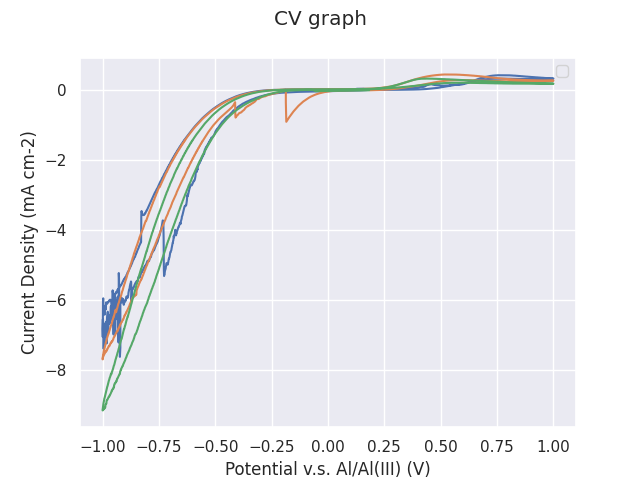
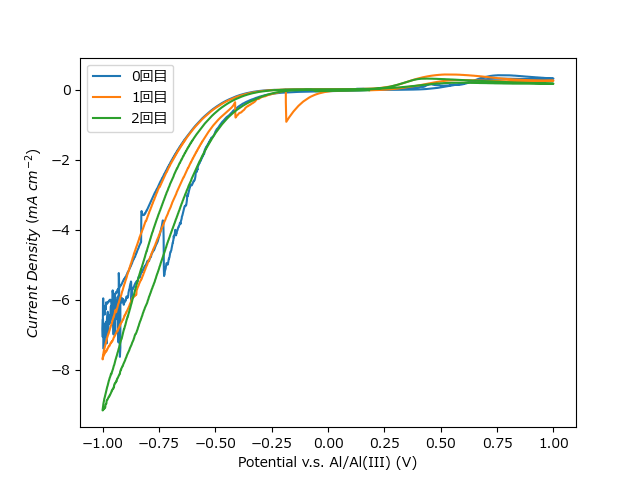
Update to use mairyo

diff --git a/plotter/cv.py b/plotter/cv.py
@@ -16,24 +16,25 @@ class GraphInfo:
 
 
 def create_cv_graph_all(parsed_csv: NextIterator, area: float):
-    sns.set_theme()
+    # sns.set_theme()
+    plt.rcParams["font.family"] = "Meiryo"
     _meta = GraphInfo(
         x_title="potential",
         y_title="current density",
         hue="凡例")
     fig, axes = plt.subplots()
-    fig.suptitle("CV graph")
-    for data in parsed_csv:
-        if is_real_data(data):
-            _trans = CVTransformer(data)
-            _trans.calc(area)
-            print(_trans.data.glimpse())
-            print(_trans.data)
-            axes.plot(_trans.data[_meta.x_title], _trans.data[_meta.y_title])
-    axes.set_ylabel("Current Density (mA cm-2)")
+    # fig.suptitle("CV graph")
+    bars = (x for x in parsed_csv if is_real_data(x))
+    for (count, data) in enumerate(bars):
+        _trans = CVTransformer(data)
+        _trans.calc(area)
+        # print(_trans.data.glimpse())
+        # print(_trans.data)
+        axes.plot(_trans.data[_meta.x_title], _trans.data[_meta.y_title], label=f"{count}回目")
+    axes.legend()
+    axes.set_ylabel(r"$Current\ Density\ (mA\ cm^{-2}$)")
     axes.set_xlabel("Potential v.s. Al/Al(III) (V)")
 
-    axes.legend()
     plt.savefig('sample.png')
     plt.show()
     # matplotlib.pyplot.show(block=False)

diff --git a/main.py b/main.py
@@ -9,12 +9,12 @@ if __name__ == '__main__':
     convert_to_utf(file_name)
     # calc your electrode area
     _r = 0.15
+    # 0.15cm*0.15cm*Pi
     area = pow(_r, 2) * math.pi
-    print(area)
     # generate graph
     with parser.open_csv(file_name) as parsed_csv:
         create_cv_graph_all(parsed_csv, area)
     # get cv_data
-    with parser.open_csv(file_name) as parsed_csv:
-        for i in generate_origin_data(parsed_csv, area):
-            print(i)
+    # with parser.open_csv(file_name) as parsed_csv:
+    #     for i in generate_origin_data(parsed_csv, area):
+    #         print(i)
